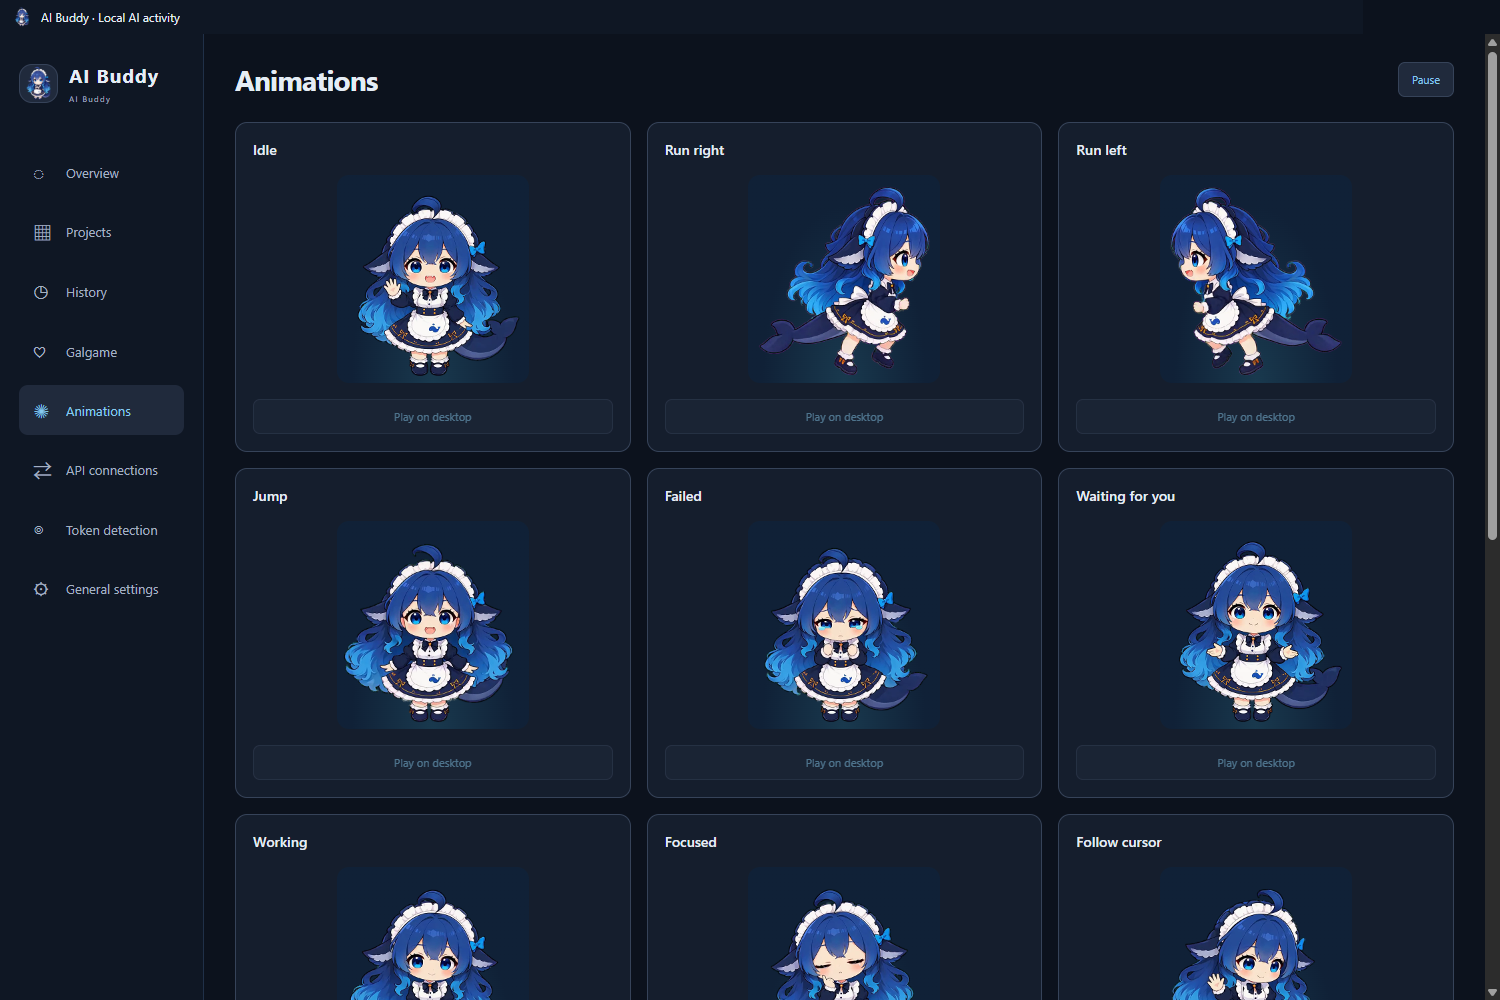
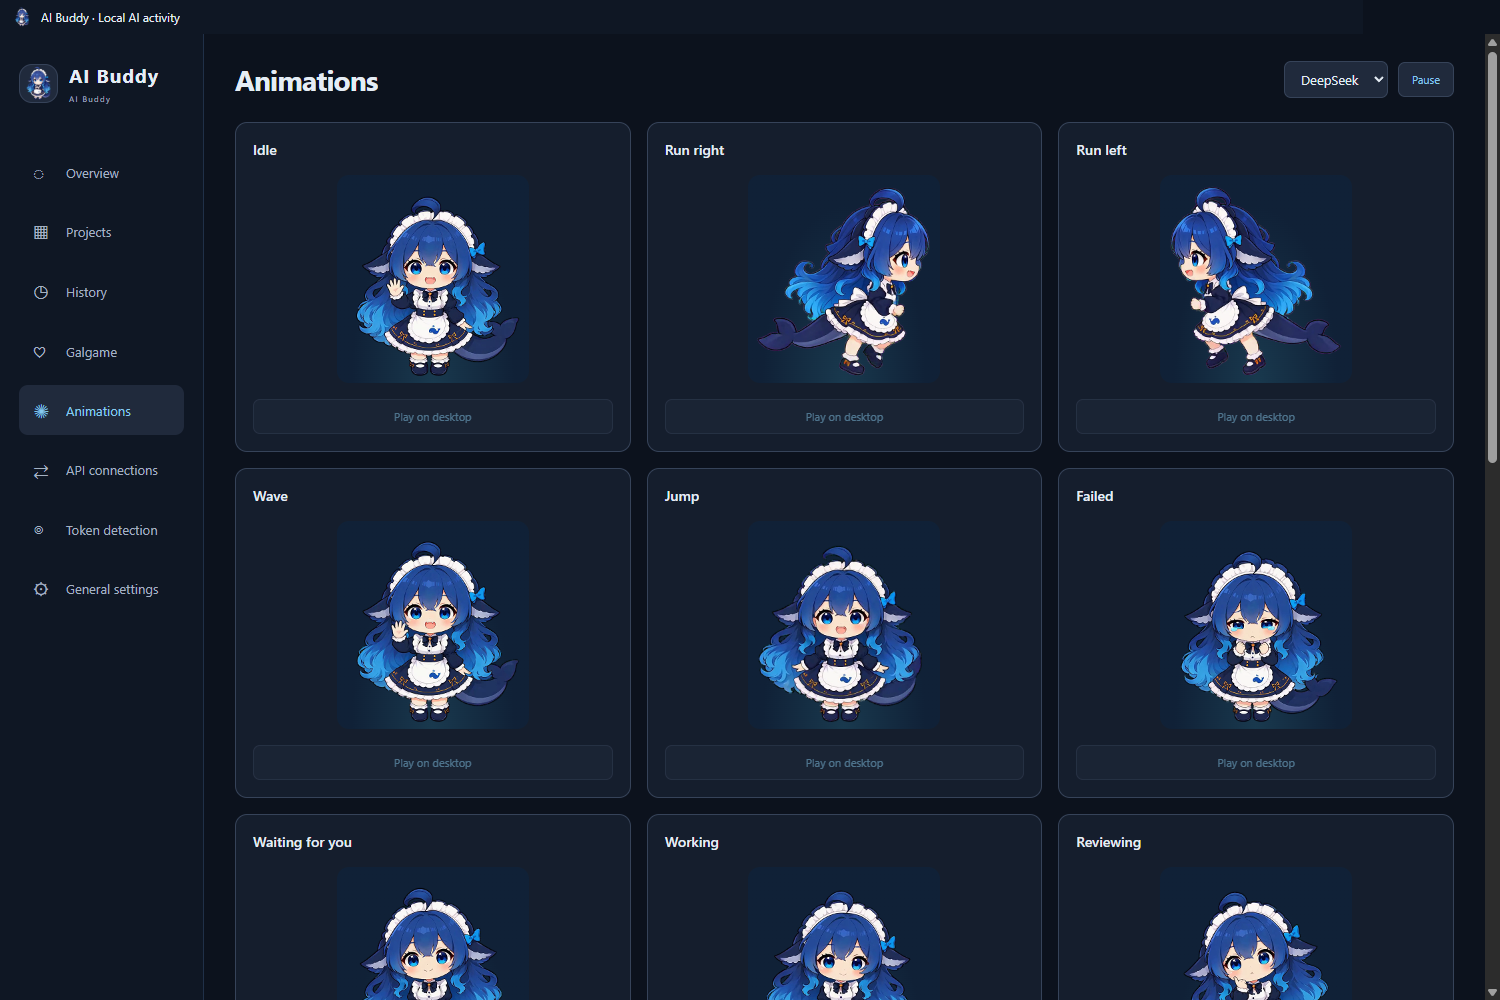
Update README for 1.8.0 and show all 11 desktop pets
Add an idle preview of every character's desktop pet, recapture the
Animations page with the character selector and 18 actions, and bring
the install guide up to date: online installer first, the real split
archive names and merge steps, installer maintenance, rollback and
uninstall, the 125% default size and the follow/fixed pet setting.
Add the 1.7.8-1.8.0 validation records.

diff --git a/README.en.md b/README.en.md
@@ -1,13 +1,14 @@
 # AI Buddy · AI 酱 · Local AI usage monitor and multi-character Galgame companion
 
+[简体中文](README.md) · **English**
+
+**Current release: [v1.8.0](https://github.com/lXiaoSel1/ai-buddy/releases/tag/v1.8.0)** · Choose 30fps Lightweight or 60fps with the same features, 11 characters, 198 independent animations and 80 portrait expressions. The default pet size is 125%; saved custom sizes are preserved. See the [guide](docs/CHARACTER-PETS.md) and [update record](docs/VALIDATION-1.8.0.md).
+
 ## Online installer (recommended)
 
 [Download the Windows x64 installer](https://github.com/lXiaoSel1/AI-Buddy/releases/download/v1.8.0/AI-Buddy-Setup-1.8.0-win-x64.exe), choose 30fps / 60fps and characters, then install. Supports resumable downloads, optional characters, offline import and rollback preserving personal data. [Installation guide](docs/INSTALLER.md).
 
-
-[简体中文](README.md) · **English**
-
-**Current release: [v1.8.0](https://github.com/lXiaoSel1/ai-buddy/releases/tag/v1.8.0)** · Choose 30fps Lightweight or 60fps with the same features, 11 characters, 198 independent animations and 80 portrait expressions. The default pet size is 125%; saved custom sizes are preserved. See the [guide](docs/CHARACTER-PETS.md) and [update record](docs/VALIDATION-1.8.0.md).
+The installer is about 50 MiB. Downloading every character takes about **1.48 GiB** at 30fps or **2.01 GiB** at 60fps; picking fewer characters downloads less. The complete portable ZIP, split into parts, is the offline alternative; see [Install](#install).
 
 ## Overview
 
@@ -19,7 +20,7 @@ AI Buddy (AI 酱) is a Windows desktop app. It reads your local AI-tool logs, to
 - **11 model girls**: DeepSeek, Grok, Seed, Kimi, Qwen, MiniMax, GPT, Gemini, Claude, GLM and Hunyuan, each with her own portrait, background, personality and voice, and her own affection and CG gallery.
 - **Appearance and model are separate**: pick who appears on stage and which chat API replies independently. Qwen's look with Claude's API works fine.
 - **More work, closer bonds**: while AI Buddy runs, new work tokens slowly turn into affection for the current character, and a level-up can produce a commemorative CG.
-- **A 30fps / 60fps transparent desktop pet**: it lives in a corner of the screen, jumps when a task finishes and reacts when one fails.
+- **A transparent desktop pet for each of the 11 characters**: 18 actions each, at 30fps or 60fps, switching with the Galgame character by default. She jumps when a task finishes and reacts when one fails.
 - **11 character themes, Chinese and English**: palettes come from each portrait. Keep one fixed or let it follow the current character.
 
 ![AI Buddy Galgame with Claude's close portrait](docs/screenshots/galgame-en.png)
@@ -69,7 +70,7 @@ Unlike the upstream plugin, AI Buddy does not pass tool-log text to the Galgame.
 
 ## Bundled default art
 
-The package includes eleven default portraits and backgrounds, DeepSeek's eight existing expressions, eighty new expressions for the other ten characters, 198 separate transparent motion videos and gaze/peak stills. DeepSeek also has an optional seaside study, and five earlier backgrounds remain selectable. The previews below are downscaled; full-size images are in the ZIP.
+The package includes eleven default portraits, chibi desktop pets and backgrounds, DeepSeek's eight existing expressions, eighty new expressions for the other ten characters, 198 separate transparent motion videos and gaze/peak stills. DeepSeek also has an optional seaside study, and five earlier backgrounds remain selectable. The previews below are downscaled; full-size images are installed with the app.
 
 <table>
   <tr>
@@ -88,6 +89,29 @@ The package includes eleven default portraits and backgrounds, DeepSeek's eight 
     <td align="center"><img src="docs/screenshots/art/portrait-claude.webp" width="160" alt="Claude default portrait"><br><strong>Claude</strong></td>
     <td align="center"><img src="docs/screenshots/art/portrait-glm.webp" width="160" alt="GLM default portrait"><br><strong>GLM</strong></td>
     <td align="center"><img src="docs/screenshots/art/portrait-hunyuan.webp" width="160" alt="Hunyuan default portrait"><br><strong>Hunyuan</strong></td>
+    <td></td>
+  </tr>
+</table>
+
+Each character also has her own chibi desktop pet with the same 18 actions. Here they are idling:
+
+<table>
+  <tr>
+    <td align="center"><img src="docs/screenshots/art/pet-deepseek.webp" width="150" alt="DeepSeek desktop pet"><br><strong>DeepSeek</strong></td>
+    <td align="center"><img src="docs/screenshots/art/pet-grok.webp" width="150" alt="Grok desktop pet"><br><strong>Grok</strong></td>
+    <td align="center"><img src="docs/screenshots/art/pet-seed.webp" width="150" alt="Seed desktop pet"><br><strong>Seed</strong></td>
+    <td align="center"><img src="docs/screenshots/art/pet-kimi.webp" width="150" alt="Kimi desktop pet"><br><strong>Kimi</strong></td>
+  </tr>
+  <tr>
+    <td align="center"><img src="docs/screenshots/art/pet-qwen.webp" width="150" alt="Qwen desktop pet"><br><strong>Qwen</strong></td>
+    <td align="center"><img src="docs/screenshots/art/pet-minimax.webp" width="150" alt="MiniMax desktop pet"><br><strong>MiniMax</strong></td>
+    <td align="center"><img src="docs/screenshots/art/pet-chatgpt.webp" width="150" alt="GPT desktop pet"><br><strong>GPT</strong></td>
+    <td align="center"><img src="docs/screenshots/art/pet-gemini.webp" width="150" alt="Gemini desktop pet"><br><strong>Gemini</strong></td>
+  </tr>
+  <tr>
+    <td align="center"><img src="docs/screenshots/art/pet-claude.webp" width="150" alt="Claude desktop pet"><br><strong>Claude</strong></td>
+    <td align="center"><img src="docs/screenshots/art/pet-glm.webp" width="150" alt="GLM desktop pet"><br><strong>GLM</strong></td>
+    <td align="center"><img src="docs/screenshots/art/pet-hunyuan.webp" width="150" alt="Hunyuan desktop pet"><br><strong>Hunyuan</strong></td>
     <td></td>
   </tr>
 </table>
@@ -148,45 +172,68 @@ The artwork has different sources and terms:
 
 - DeepSeek's portrait, expression variants and the deep-sea palace and seaside study backgrounds come from upstream dsh-whale-galgame and belong to its 21 default images under CC BY-NC-SA 4.0.
 - The other ten portraits and backgrounds were generated with an image tool, using character designs from a gallery as references; they are not the gallery files. The design authors are credited, but a general redistribution license for all ten references has not been verified.
+- The chibi desktop pets of the ten new characters were generated from their portraits at the DeepSeek pet's proportions; they are not gallery files either.
 - Character motion videos were generated with MiniMax H3 and interpolated with RIFE. New expressions and chibi designs retain their character-reference provenance; they are not universally claimed as MIT.
 
 See [THIRD_PARTY_NOTICES.md](THIRD_PARTY_NOTICES.md) for per-file notes. The Galgame layout, dialogue box and controls are adapted from upstream in [`src/adapted/galgame-client.ts`](src/adapted/galgame-client.ts) and do not depend on an unpublished UI image pack.
 
 ## Install
 
-Requires Windows 10/11 x64. AI Buddy is portable and bundles the Electron runtime; Node.js, Python and image tools are not needed.
+Requires Windows 10/11 x64. Use the online installer (recommended) or download the complete portable split archive. Both bundle their runtime; Node.js, Python and image tools are not needed. The two frame-rate editions have the same features, characters, save format and gaze precision; only the motion videos differ. With every character installed they take about 1.77 GiB (30fps) or 2.30 GiB (60fps).
 
-1. Choose `AI-Buddy-1.8.0-Windows-x64-30fps.zip` (smaller) or `AI-Buddy-1.8.0-Windows-x64-60fps.zip` (higher animation frame rate) from [v1.8.0](https://github.com/lXiaoSel1/ai-buddy/releases/tag/v1.8.0). Verify with `SHA256SUMS-1.8.0.txt`. Both editions have the same features, characters, save format and gaze precision.
-2. Extract the whole ZIP to a writable location. You get an `AI-Buddy` folder.
-3. Open the **AI-Buddy** folder and double-click **AI Buddy.exe** in its root. **AI Buddy.vbs / AI Buddy.cmd** are compatibility launchers that start the same program. Since 1.7.3, the root EXE validates the runtime and starts it directly, without the PowerShell `Get-FileHash` command; the 1.7.2 script launcher could exit on machines where that command is unavailable, and the old package only had the EXE under the versioned `runtime` folder.
+### Online installer (recommended)
+
+1. Download `AI-Buddy-Setup-1.8.0-win-x64.exe` (about 50 MiB) from the [v1.8.0 page](https://github.com/lXiaoSel1/ai-buddy/releases/tag/v1.8.0). It includes its own .NET runtime.
+2. Choose the installation folder (default `%LOCALAPPDATA%\Programs\AI Buddy`), 30fps or 60fps, the characters to install and the initial character. The first-run defaults are 30fps, every character and DeepSeek.
+3. Click install. The installer downloads from the pinned v1.8.0 release and checks SHA-256 for every package and file; every character takes about 1.48 GiB at 30fps or 2.01 GiB at 60fps. If a download is interrupted, run the same installer again with the same folder to resume.
+4. Desktop and Start menu shortcuts are created by default. The installer does not turn on online chat, automatic CG, startup registration or background updates.
+
+### Portable split archive (offline)
+
+1. From the same page, download every part of your edition plus the merge tools into one folder:
+    - 30fps: `AI-Buddy-1.8.0-Windows-x64-30fps.zip.part01`, `.part02`, `AI-Buddy-1.8.0-Windows-x64-30fps.zip.parts.json`, `Combine-AI-Buddy-1.8.0.ps1` and `Combine-AI-Buddy-1.8.0-30fps.cmd`.
+    - 60fps: `AI-Buddy-1.8.0-Windows-x64-60fps.zip.part01` to `.part03`, the matching `.zip.parts.json`, `Combine-AI-Buddy-1.8.0.ps1` and `Combine-AI-Buddy-1.8.0-60fps.cmd`.
+2. Double-click the matching `.cmd`. It verifies each part, combines them and verifies the complete ZIP, using only the built-in Windows PowerShell. Do not extract an individual part.
+3. Extract the combined ZIP to a writable location, open the `AI-Buddy` folder and double-click **AI Buddy.exe** in its root. `AI Buddy.vbs` and `AI Buddy.cmd` are compatibility launchers that start the same program.
+
+Another offline route: put `install-manifest-1.8.0.json` and the resource ZIPs you need in one folder and select it as the installer's "Offline resource folder"; the same checks apply. The 1.7.10 offline packages remain on their original release page.
 
 Notes:
 
 - Do not run it from inside the ZIP or copy only the executable; keep the folder structure.
-- The executable is not commercially code-signed, so Windows may report an unknown publisher. Check the SHA-256 first if you like.
+- Neither the installer nor the app is commercially code-signed, so Windows may report an unknown publisher. Check `SHA256SUMS-1.8.0.txt` first if you like.
 - On first launch it looks for common log folders under the current user. No AI tools installed? The companion features still work offline.
-- The automatic GitHub **Source code** archives are source-only. Choose a release asset containing `Windows-x64` to run the app.
+- The automatic GitHub **Source code** archives are source-only and do not run.
 - This repository and official releases are public. Release packages exclude the developer's saves, connection secrets and local logs.
-- Both 1.8.0 portable editions are split: 2 parts for 30fps and 3 for 60fps. Download every `.zip.partNN` for your edition, its `.zip.parts.json`, `Combine-AI-Buddy-1.8.0.ps1` and the matching `30fps.cmd` or `60fps.cmd` merge tool into one folder, then double-click the `.cmd`. It verifies each part, combines them and verifies the complete ZIP before you extract it. Only the built-in Windows PowerShell is required; no Node.js or Python. Do not extract an individual part.
 
-Folder layout after extraction:
+Folder layout after installation:
 
 ~~~text
-AI-Buddy/
+<install folder>/
 ├─ AI Buddy.exe / AI Buddy.vbs / AI Buddy.cmd / Start-AI-Buddy.ps1   launchers
-├─ builds/<version>/                                  app code and bundled resources
-├─ runtime/AI-Buddy-<version>/AI Buddy.exe             Electron runtime
-├─ local/current-build.json                            current version pointer
-├─ local/data-v003/                                    your data, created on first run
-├─ assets/  docs/  licenses/  数据源示例/ (source examples)
+├─ builds/<version>/                       app code, motions and character resources
+├─ runtime/AI-Buddy-<version>/             Electron runtime
+├─ maintenance/1.8.0/AI Buddy Setup.exe    maintenance tool (online install only)
+├─ local/current-build.json                current version pointer
+├─ local/installation.json                 installed edition and characters (online install only)
+├─ local/data-v003/                        your data, created on first run
+├─ assets/  docs/  licenses/
 └─ README.md  LICENSE.md  THIRD_PARTY_NOTICES.md
 ~~~
 
 ### Update and remove
 
-To update, choose **Quit** from the tray menu, extract the new ZIP to the same place so the new `AI-Buddy` folder overwrites the old one, and start it as usual. Your data lives in `local/data-v003`; the release package does not contain that folder, so extracting over it leaves it alone. Never replace it with an empty folder. Backing up `local/data-v003` before updating is a good habit.
+Online install:
 
-To remove, quit and delete the whole `AI-Buddy` folder. Settings, data and interface caches all live under its `local/` folder, and AI Buddy adds no startup entry. Back up `local/data-v003` first if you want to keep chats and CGs.
+- Add characters, repair files or switch frame rate: click **Manage character resources** in General settings to open the maintenance tool, or run the same-version installer again. Characters that are not installed show as "Not installed" and open the installer only after you confirm; nothing downloads automatically.
+- Upgrade: run the newer installer. It waits for chat and CG to finish, closes AI Buddy normally, and keeps the previous program version and your personal data.
+- Roll back: click **Roll back** in the installer. It restores the program and launch pointer only and never overwrites newer progress with old saves.
+- Remove: click **Uninstall…** in the installer. Personal data is kept by default; you can also tick deleting the default personal data (irreversible). A custom data folder is never deleted. The download cache `%LOCALAPPDATA%\AI Buddy\InstallerCache` stays for resuming and repair; delete it manually if you no longer need it.
+
+Portable:
+
+- Update: choose **Quit** from the tray menu, extract the new version over the same location and start it as usual. Your data lives in `local/data-v003`; the release package does not contain that folder, so extracting over it leaves it alone. Back it up before updating if you like.
+- Remove: quit and delete the whole folder; AI Buddy adds no startup entry. Back up `local/data-v003` first if you want to keep chats and CGs.
 
 ### Run from source
 
@@ -229,7 +276,8 @@ Portable editors, WSL or other users' folders must be added manually: in **Token
 | Language | Follows the system language on first launch; Simplified Chinese or English |
 | Theme mode | Fixed DeepSeek theme; can follow the current character instead |
 | Show desktop pet | On |
-| Pet size | 100%, from 75% to 150% |
+| Companion character | Follow Galgame character; DeepSeek when switched to a fixed character |
+| Pet size | 125%, from 75% to 150% |
 | Animation speed | 75%, from 25% to 100% |
 | Always on top, Click through transparent areas, Follow the pointer, Show status bar, Task feedback bubbles | On |
 | Fallback polling interval | 1 second (file changes are read immediately) |
@@ -274,6 +322,8 @@ A scene has at most 10 lines. Each choice adds or removes 1 affection point for 
 ![Theater with Grok, Kimi and Gemini on stage](docs/screenshots/side-story-en.png)
 
 ### Built-in desktop pet
+
+Each of the 11 characters has her own pet. **Companion character** in General settings defaults to **Follow Galgame character**: whoever you switch to in the Galgame appears on the desktop. Choose **Fixed character** to keep the same one. Characters without installed resources show as "Not installed" and prompt you to add them; nothing downloads automatically. Chatting with any character makes the pet play the matching emotion.
 
 The pet is shown on the desktop by default. Drag her by the character or the status bar, and click through the transparent areas. General settings adjusts size, animation speed, always-on-top, pointer following and the status bar, which shows the number of running sessions. Task feedback that arrives while you drag is queued and plays after you let go. A hidden pet can be shown again from the tray menu.
 
@@ -327,9 +377,12 @@ All runtime data lives under `local/data-v003` in the app folder. Treat it as pr
 - `settings.json`: preferences and the pet position.
 - `model-connections.json`, `cg-connections.json`, `quota-connections-v1.json`: saved connections, with keys encrypted by safeStorage.
 - `token-sources.json`, `token-index-v1.json`, `token-events-v1.jsonl` and related files: source settings and the usage index, which contain local project paths.
+- `usage-ledger-v2/`: request history (local SQLite), read page by page on demand.
 - `galgame/storages/dsh-whale-galgame/global.json`: the Galgame save, including each character's affection, profile, chat history, custom portrait, CG gallery and background.
 - `cg-assets/`: generated CGs and thumbnails.
 - `chromium/`, `crash-reports/`: interface cache and crash reports.
+
+The online installer's download cache is `%LOCALAPPDATA%\AI Buddy\InstallerCache`; it holds only install packages, no personal data.
 
 What leaves your machine:
 
@@ -354,7 +407,7 @@ npm start
 
 Development needs Windows x64 and Node.js 24, with Electron 44.6.0, React 19.3.0 and esbuild 0.28.2. `npm test` covers pure logic with temporary data and mock services; it needs no paid requests and does not certify native integration or visual acceptance. `npm run check:version` checks that `package.json`, `package-lock.json`, the download names and current-release links in both READMEs, and the build guide agree; the source build runs the same check first. Build output goes to `builds/development`.
 
-Do not commit `local/`, generated `builds/`, keys, personal CGs or logs. Release version steps are in [BUILD.md](docs/BUILD.md). Validation records: [1.7.7](docs/VALIDATION-1.7.7.md) (stutter and backward gaze when circling the pet), [1.7.6](docs/VALIDATION-1.7.6.md) (pointer sampling and direction-frame prefetch), [1.7.5](docs/VALIDATION-1.7.5.md) (Volcengine Ark drawing and Galgame portrait references), [1.7.3](docs/VALIDATION-1.7.3.md) (portable startup and local Codex discovery; covers simulated desktop-only installations and real local desktop/Store sign-in and image-capability checks, with no remote test on the user's laptop and no new CG generated), [1.7.2](docs/VALIDATION-1.7.2.md) (close portraits and release checks), [1.7.1](docs/VALIDATION-1.7.1.md) (WebM animations and themes), [1.7.0](docs/VALIDATION-1.7.0.md).
+Do not commit `local/`, generated `builds/`, keys, personal CGs or logs. Release version steps are in [BUILD.md](docs/BUILD.md). Validation records: [1.8.0](docs/VALIDATION-1.8.0.md) (online installer and per-character packages), [1.7.10](docs/VALIDATION-1.7.10.md) (30fps / 60fps editions, request history in SQLite), [1.7.9](docs/VALIDATION-1.7.9.md) (consistent character size, action switching and hit-test fixes), [1.7.8](docs/VALIDATION-1.7.8.md) (separate desktop pets and expressions for all 11 characters), [1.7.7](docs/VALIDATION-1.7.7.md) (stutter and backward gaze when circling the pet), [1.7.6](docs/VALIDATION-1.7.6.md) (pointer sampling and direction-frame prefetch), [1.7.5](docs/VALIDATION-1.7.5.md) (Volcengine Ark drawing and Galgame portrait references), [1.7.3](docs/VALIDATION-1.7.3.md) (portable startup and local Codex discovery; covers simulated desktop-only installations and real local desktop/Store sign-in and image-capability checks, with no remote test on the user's laptop and no new CG generated), [1.7.2](docs/VALIDATION-1.7.2.md) (close portraits and release checks), [1.7.1](docs/VALIDATION-1.7.1.md) (WebM animations and themes), [1.7.0](docs/VALIDATION-1.7.0.md).
 
 ## License and credits
 
